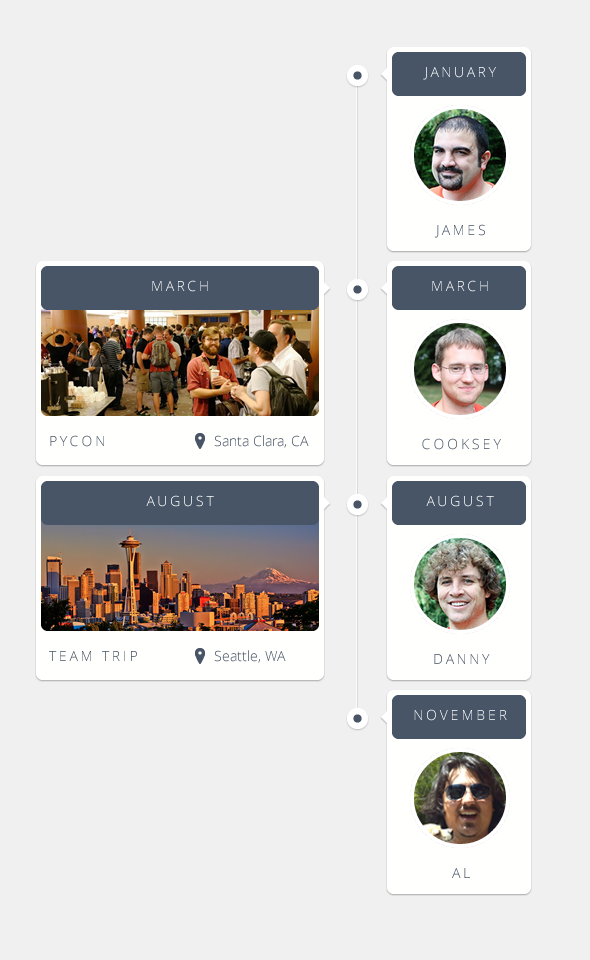
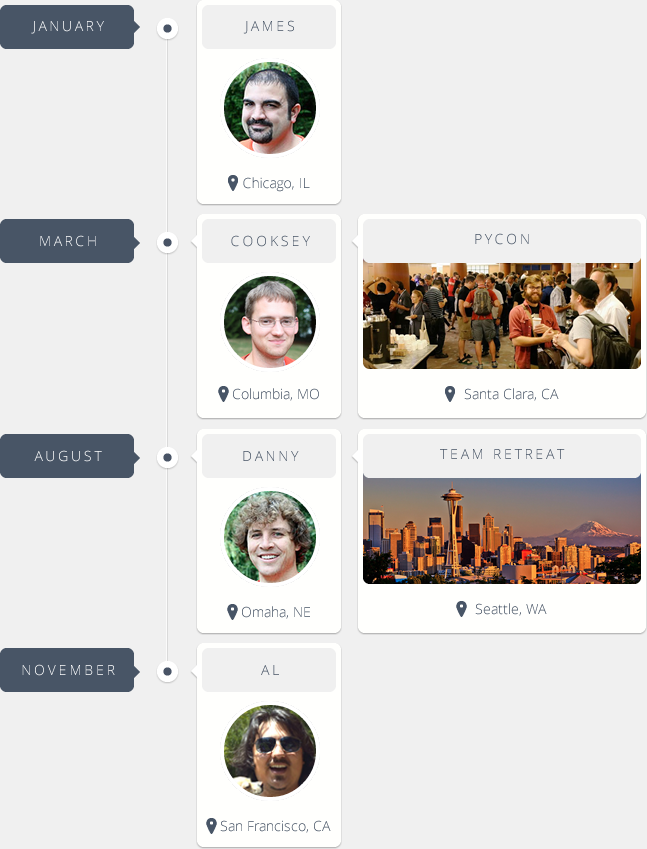
Thanks to @bryanhelmig for the idea on how to clean up the timeline!

diff --git a/annual-review.html b/annual-review.html
@@ -153,10 +153,6 @@
             </div><!-- /banner-fill -->
         </div><!-- /banner -->
 
-        <div class="full-bleed">
-            <img src="images/annual-report-map.jpg">
-        </div>
-
         <div class="article-body">
             <div class="container">
                 <div class="row">
@@ -168,8 +164,8 @@
             </div><!-- /container -->
         </div><!-- /article-body -->
 
-        <div class="full-bleed team-timeline">
-            <img src="images/annual-report-team-timeline.png">
+        <div class="full-bleed">
+            <img src="images/annual-report-map.jpg">
         </div>
 
         <div class="article-body">
@@ -184,27 +180,9 @@
             </div><!-- /container -->
         </div><!-- /article-body -->
 
-
-
-
-
-
-
-
-
-
-
-
-        <div class="banner banner-alternate3">
-            <div class="banner-fill">
-                <h2>254</h2>
-                <hr>
-                <h3>Growth of Integrations</h3>
-                </div>
-            </div><!-- /banner-fill -->
-        </div><!-- /banner -->
-
-
+        <div class="full-bleed team-timeline">
+            <img src="images/annual-report-team-timeline.png">
+        </div>
 
 
 
@@ -215,7 +193,7 @@
                 <div class="row">
                     <div class="col-md-8 col-md-offset-2">
 
-                        <h3>From 123 to 254</h3>
+                        <h3>From 123 to 254 - Growth of Integrations</h3>
                         <p>In December 2012, our integration platform supported 123 web services, many of which had been added by us. Realizing the potential benefits to users if integrations could be quickly added without the need of our small team, in August we <a href="https://zapier.com/blog/announcing-zapier-developer-platform-join-hubspot-podio-and-12-others/">launched our developer platform</a>. This set the stage for <strong>adding 137 integrations</strong> to Zapier in 2013.</p>
 
 

diff --git a/css/marketing.css b/css/marketing.css
@@ -586,6 +586,7 @@ clear, .clear {
 
 .home-minimal .team-timeline {
     background: #F0F0F0;
+    padding: 40px 10px;
 }
 
 .home-minimal h1 {
